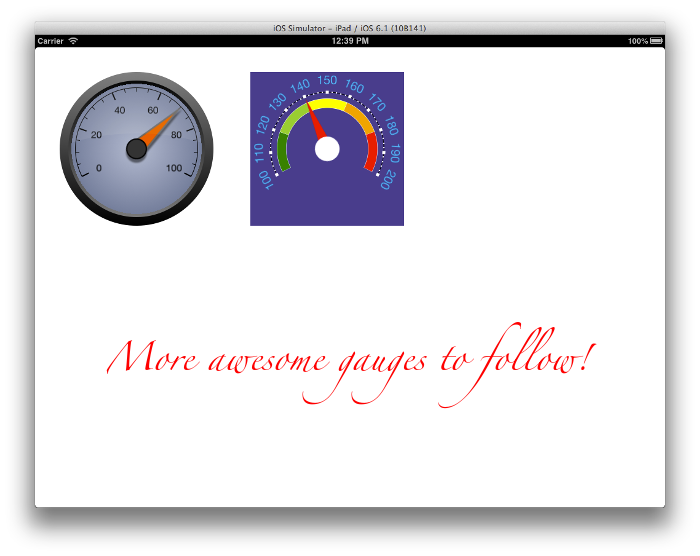
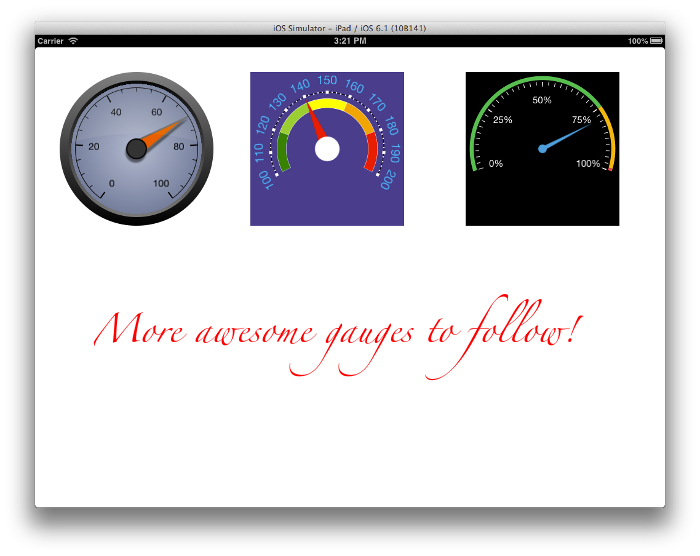
Added another funky gauge

diff --git a/GaugeGallery/GaugeGallery/ViewController.m b/GaugeGallery/GaugeGallery/ViewController.m
@@ -27,6 +27,82 @@
     [self addGaugeOne];
     
     [self addGaugeTwo];
+    
+    [self addGaugeThree];
+}
+- (void)addGaugeThree {
+    
+    
+    gauge = [[SGaugeRadial alloc] initWithFrame:CGRectOffset(CGRectMake(0, 0, 250, 250), 700, 40)
+                                    fromMinimum:@0 toMaximum:@1];
+    gauge.qualitativeRanges = @[
+                                [SGaugeQualitativeRange rangeWithMinimum:@0 withMaximum:@0.75 withColor:UIColorFromRGB(0x09BF5D)],
+                                [SGaugeQualitativeRange rangeWithMinimum:@0.75 withMaximum:@0.99 withColor:UIColorFromRGB(0xFFB637)],
+                                [SGaugeQualitativeRange rangeWithMinimum:@0.99 withMaximum:nil withColor:UIColorFromRGB(0xF5474F)]];
+    
+    gauge.backgroundColor = [UIColor blackColor];
+    [self.view addSubview:gauge];
+        
+    // tick
+    gauge.axis.majorTickFrequency = 0.250f;
+    gauge.axis.minorTickFrequency = 0.025f;
+    
+    NSNumberFormatter* formatter = [NSNumberFormatter new];
+    formatter.numberStyle = NSNumberFormatterPercentStyle;
+    gauge.axis.formatter = formatter;
+    
+    // sweep
+    gauge.arcAngleStart = -M_PI * 0.6;
+    gauge.arcAngleEnd = M_PI * 0.6;
+    gauge.style.borderIsFullCircle = NO;
+    
+    // qual ranges
+    gauge.style.qualitativeInnerPosition = 0.9f;
+    gauge.style.qualitativeOuterPosition = 0.95f;
+    gauge.style.qualitativeRangeBorderWidth = 0.0f;
+    
+    // background color
+    gauge.style.innerBackgroundColor = [UIColor clearColor];
+    gauge.style.outerBackgroundColor = [UIColor clearColor];
+    
+    
+    // needle
+    gauge.style.needleColor = UIColorFromRGB(0x00A0D7);
+    gauge.style.needleWidth = 7.0f;
+    gauge.style.needleLength = 0.75;
+    gauge.style.needleBorderWidth = 0.0f;
+    
+    // knob
+    gauge.style.knobColor = UIColorFromRGB(0x00A0D7);
+    gauge.style.knobBorderWidth = 0.0f;
+    gauge.style.knobRadius = 7.0f;
+    
+    // tick location
+    gauge.style.tickBaselinePosition = 0.88f;
+    
+    // tick styling
+    gauge.style.majorTickColor = [UIColor whiteColor];
+    gauge.style.majorTickSize = CGSizeMake(1, 8);
+    gauge.style.minorTickSize = CGSizeMake(1, 6);
+    gauge.style.minorTickColor = [UIColor whiteColor];
+    gauge.style.tickMarkAlignment = SGaugeTickAlignTop;
+    
+    // glass
+    gauge.style.showGlassEffect = NO;
+    
+    // labels
+    gauge.style.tickLabelOffsetFromBaseline = -30.0f;
+    gauge.style.tickLabelColor = [UIColor whiteColor];
+    gauge.style.tickLabelsRotate = NO;
+    gauge.style.tickLabelFont = [UIFont fontWithName:gauge.style.tickLabelFont.fontName size:15.0f];
+    
+    // bezel
+    gauge.style.bevelWidth = 0.0f;
+    
+    
+    // value
+    gauge.value = 0.79;
+    
 }
 
 - (void)addGaugeTwo {
@@ -113,8 +189,8 @@
     gauge.axis.minorTickFrequency = 5.0f;
     
     // sweep
-    gauge.arcAngleStart = -M_PI * 0.65;
-    gauge.arcAngleEnd = M_PI * 0.65;
+    gauge.arcAngleStart = -M_PI * 0.8;
+    gauge.arcAngleEnd = M_PI * 0.8;
     gauge.style.borderIsFullCircle = YES;
     
     // background
